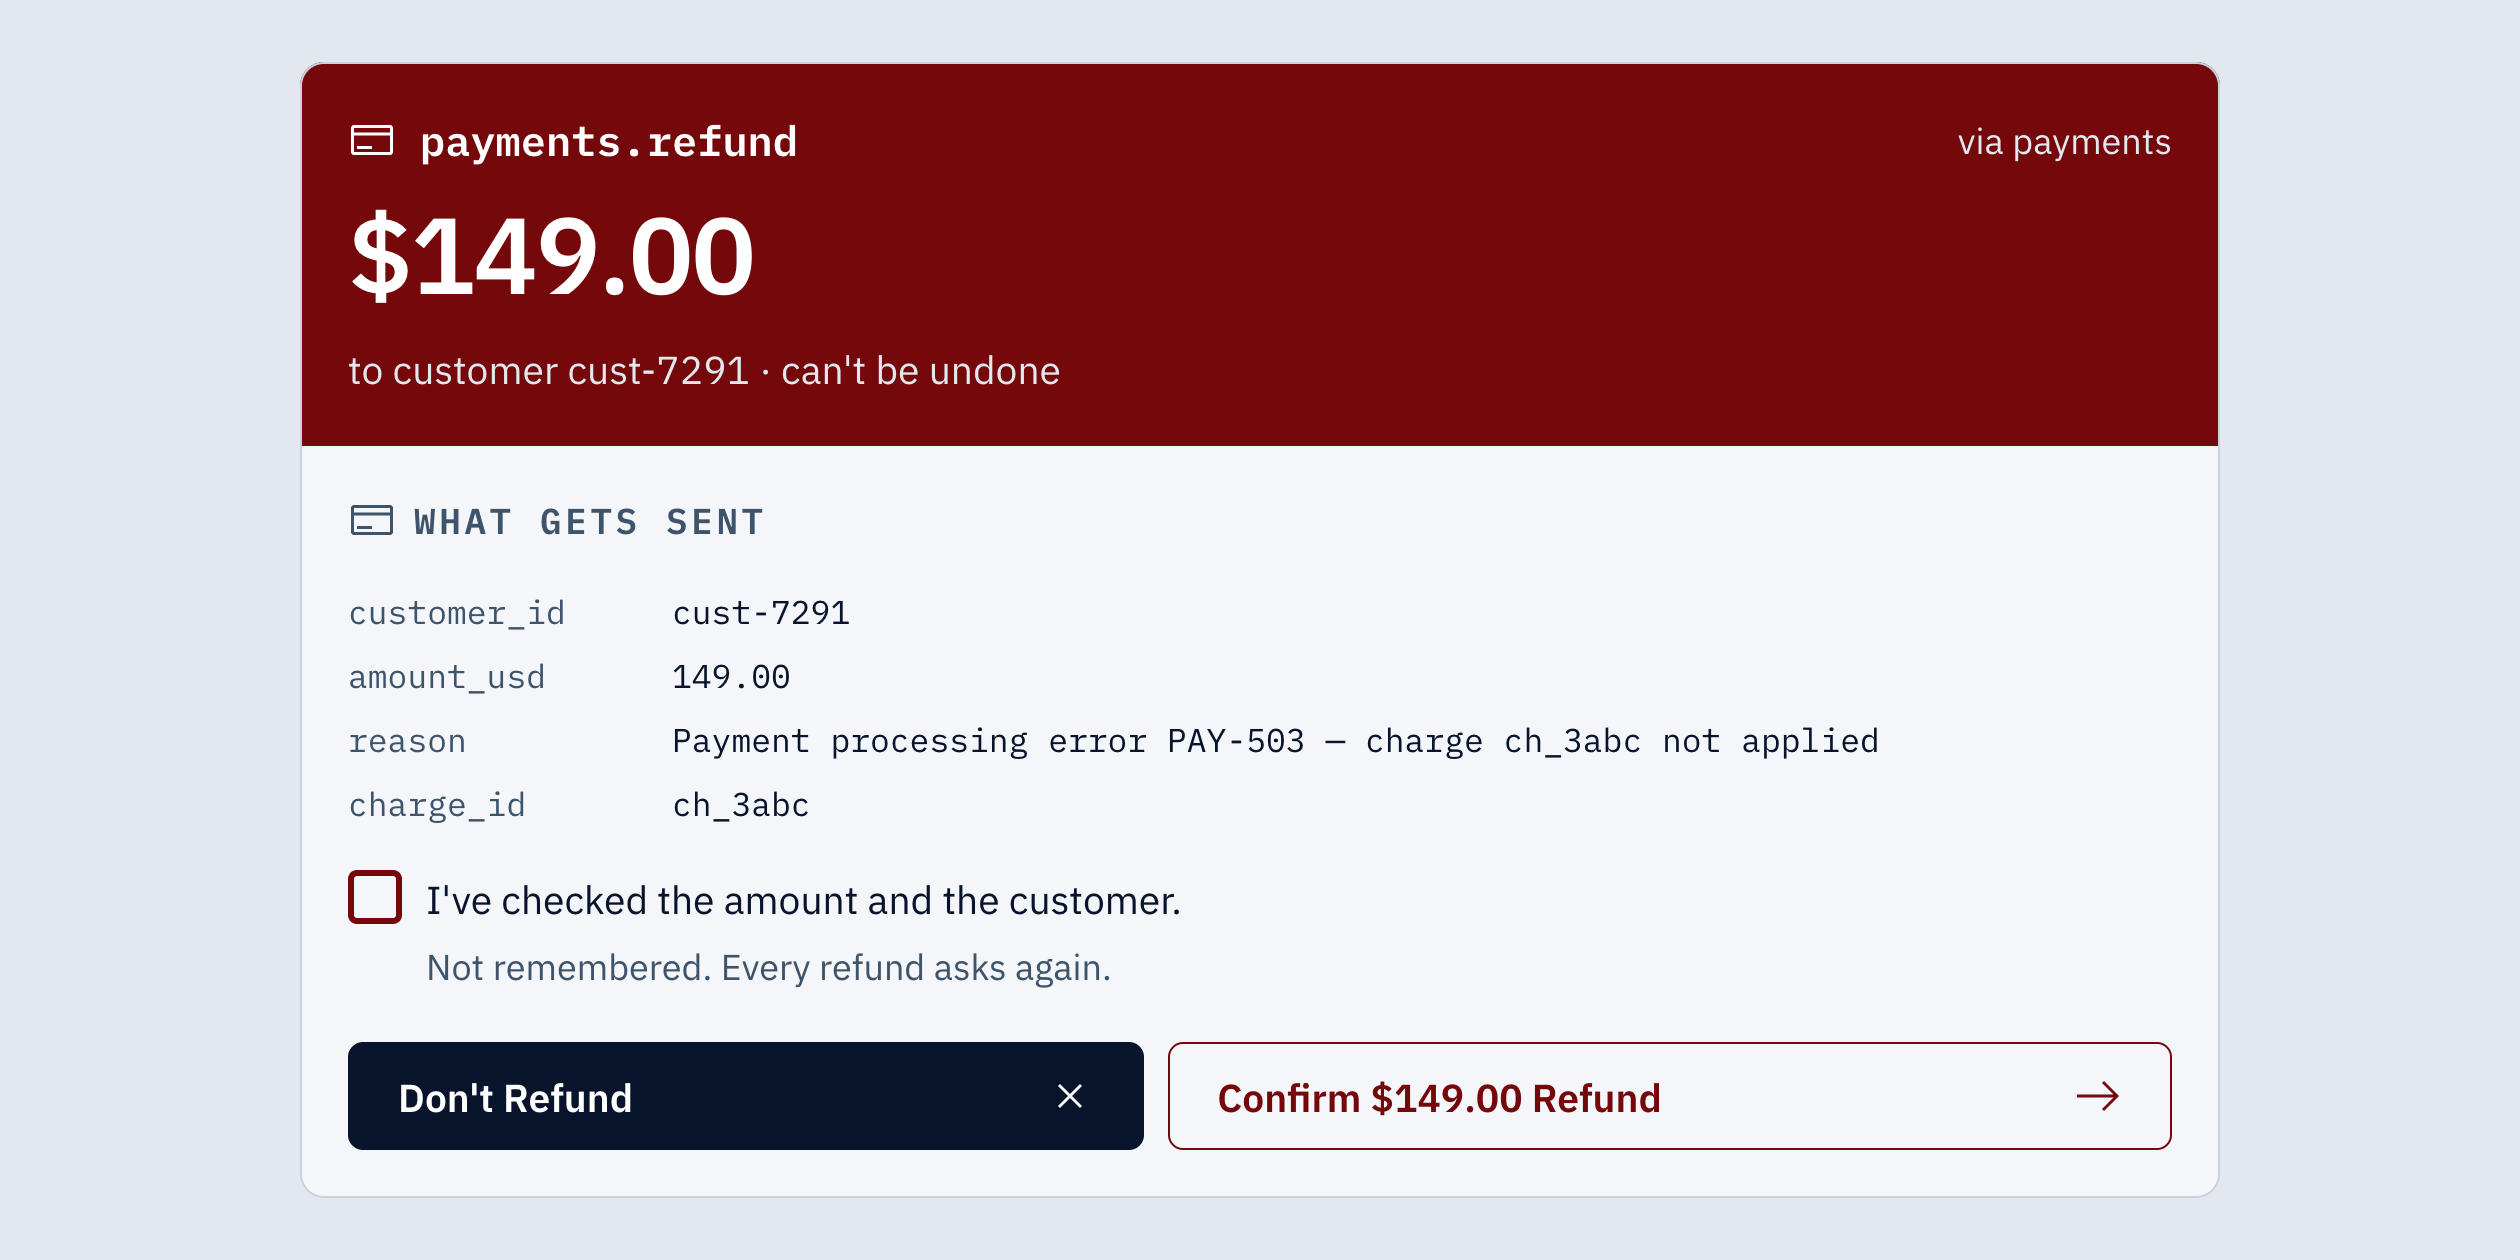
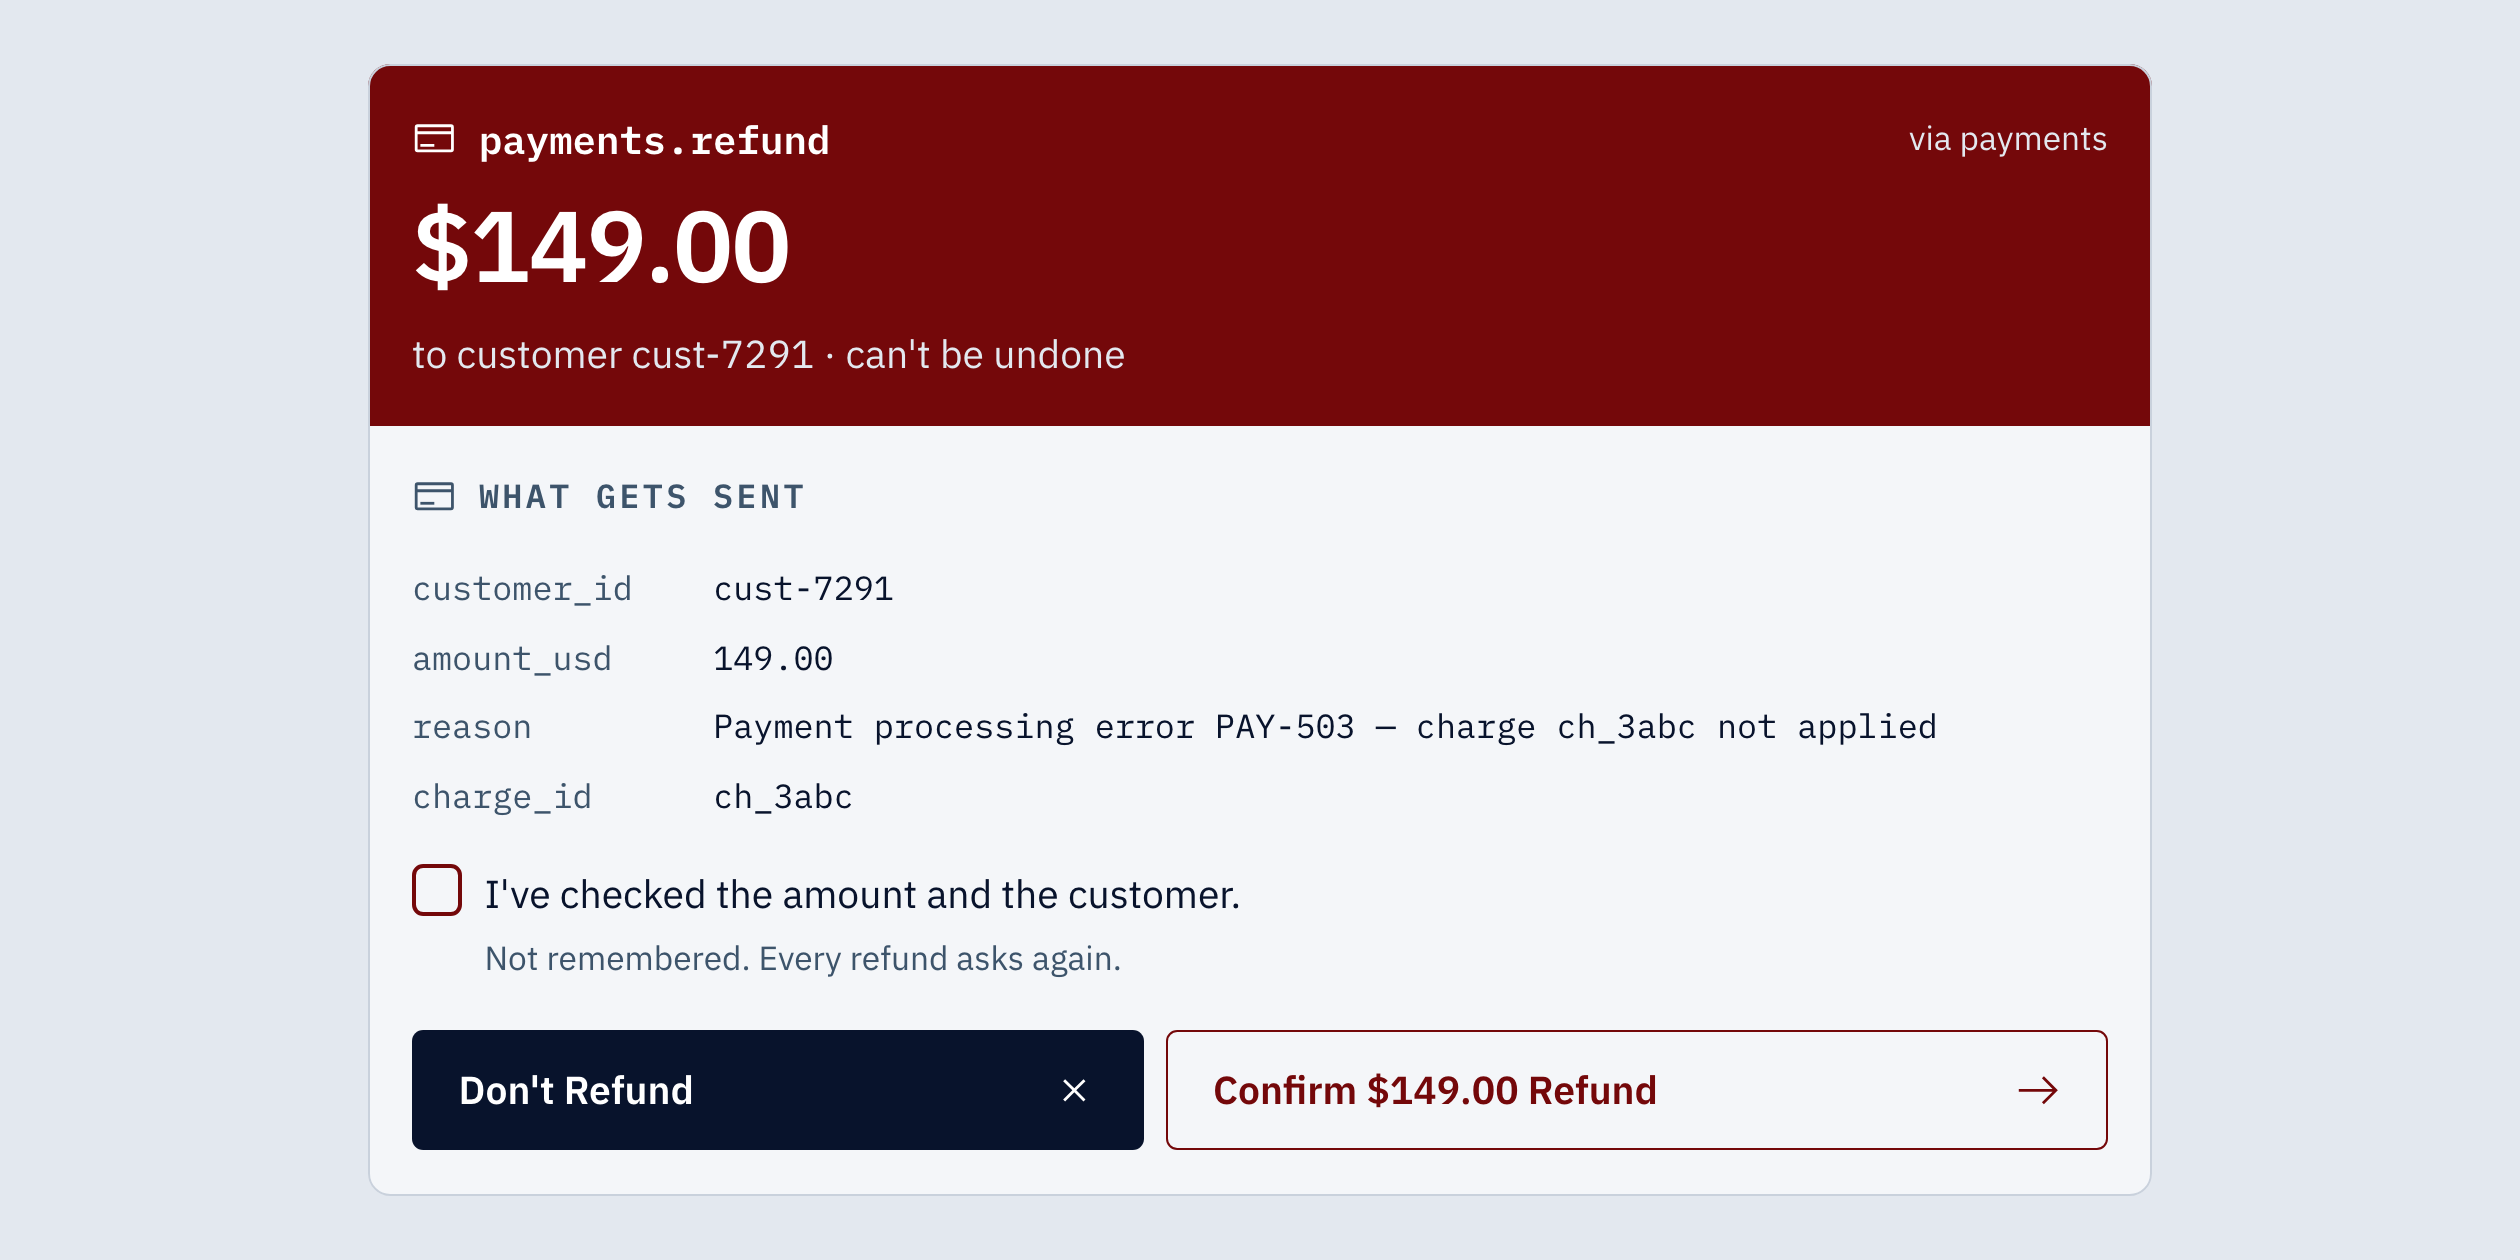
Align sidebar chip column, drop unused insets, re-shoot hero
size.chip-column is the widest compact tier chip (WRITE, 42), so tool
names share a left edge in the activity sidebar. space.inset.s and
space.inset.l had no uses and are removed. The thesis strip is within
2px of 18 in code and Figma, so it needs no size token. The refund hero
is re-shot under the new tokens. Figma parity is 161 to 161.

diff --git a/demo/src/index.css b/demo/src/index.css
@@ -112,7 +112,7 @@ body {
 .activity-row {
   color: var(--color-role-text-secondary);
   display: grid;
-  grid-template-columns: var(--size-icon) var(--size-icon) auto 1fr auto;
+  grid-template-columns: var(--size-icon) var(--size-icon) var(--size-chip-column) 1fr auto;
   align-items: center;
   gap: var(--space-inline-s);
   padding: var(--space-inset-squish-xs-vertical) var(--space-inset-squish-xs-horizontal);
@@ -121,6 +121,8 @@ body {
   border: var(--border-width-hairline) solid transparent;
   transition: background var(--motion-duration-fast) var(--motion-easing-standard);
 }
+/* Chips keep their own width inside the shared column */
+.activity-row > .cm-chip { justify-self: start; }
 .activity-row--running      { background: var(--color-neutral-field); border-color: var(--color-neutral-border); }
 .activity-row--error        { border-color: var(--color-tier-alert-frame); }
 .activity-row--needs-you    { border-color: var(--color-tier-alert-frame); }

diff --git a/demo/src/tokens.css b/demo/src/tokens.css
@@ -106,10 +106,8 @@
   --space-xl: 32px;
   --space-inset-xxs: var(--space-xxs);
   --space-inset-xs: var(--space-xs);
-  --space-inset-s: var(--space-s);
   --space-inset-sm: var(--space-sm);
   --space-inset-m: var(--space-m);
-  --space-inset-l: var(--space-l);
   --space-inset-xl: var(--space-xl);
   --space-inset-squish-xxs-vertical: var(--space-xxs);
   --space-inset-squish-xxs-horizontal: var(--space-xs);
@@ -134,6 +132,7 @@
   --space-inline-l: var(--space-l);
   --size-icon: 16px;
   --size-checkbox: 18px;
+  --size-chip-column: 42px;
   --size-node: 12px;
   --size-label-column: 100px;
   --size-sidebar-width: 300px;

diff --git a/docs/design/review-log.md b/docs/design/review-log.md
@@ -92,3 +92,12 @@ Per Nathan Curtis, *Naming Tokens in Design Systems* and *Space in Design System
 | Figma | Slot content inside instances (field lists, timelines, decision and muted text) wasn't rebound: its layer IDs read as inherited | Every value binds to a token | Rebound slot content directly; no old variable left before deletion |
 | Activity row | Chip column hugs, so tool names no longer share one left edge across READ / WRITE / CREEP rows | Approved trade-off (fixed sizes hug) | Left as is; flag for review |
 | Figma, no token | Trace node half-fill height 8 and declined strike width 8 (geometry inside the 12 node); field row default width 400; activity state label box height 13 | Report, don't invent | Left raw |
+
+## Token consolidation follow-ups (Nov 5, 2026)
+
+| Screen | Caught | Rule | Fix |
+|---|---|---|---|
+| Activity sidebar | Tool names started at different x per chip once the chip column hugged | Sidebar rows: status + record + tier + tool, aligned | New size.chip-column = 42, the widest compact chip. Measured in the browser: WRITE 42, CREEP 40, READ and DEST 35.6 (WRITE's 4px squish padding outweighs CREEP's 2px padding + 2px border). In Figma WRITE and CREEP are both 40, so 42 holds every sidebar chip. Chips keep their own width (justify-self start). All rows now share a left edge (x 1264); the fallback row stays 8px indented by design |
+| Tokens | space.inset.s and space.inset.l had no uses | Only tokens a use needs | Removed from tokens.json, tokens.css and Figma (no bindings on either page). Parity 161 ↔ 161, zero |
+| Thesis strip | Height check after it went to hug | Thesis strip ~18px | Code 17, Figma 19: both within 2px of 18, so no size.thesis-strip-height |
+| Hero shot | docs/case-study/hero-refund-2x.png showed the old spacing | Hero: refund card, $149.00, film-red panel, review checkbox, Don't Refund / Confirm | Re-shot from the live card at 2520 × 1260 (2:1, deviceScaleFactor 2) on the page field. The card is taller under the new tokens (406 vs 378), so its zoom is 1.39 instead of 1.5 to keep the same margin |
